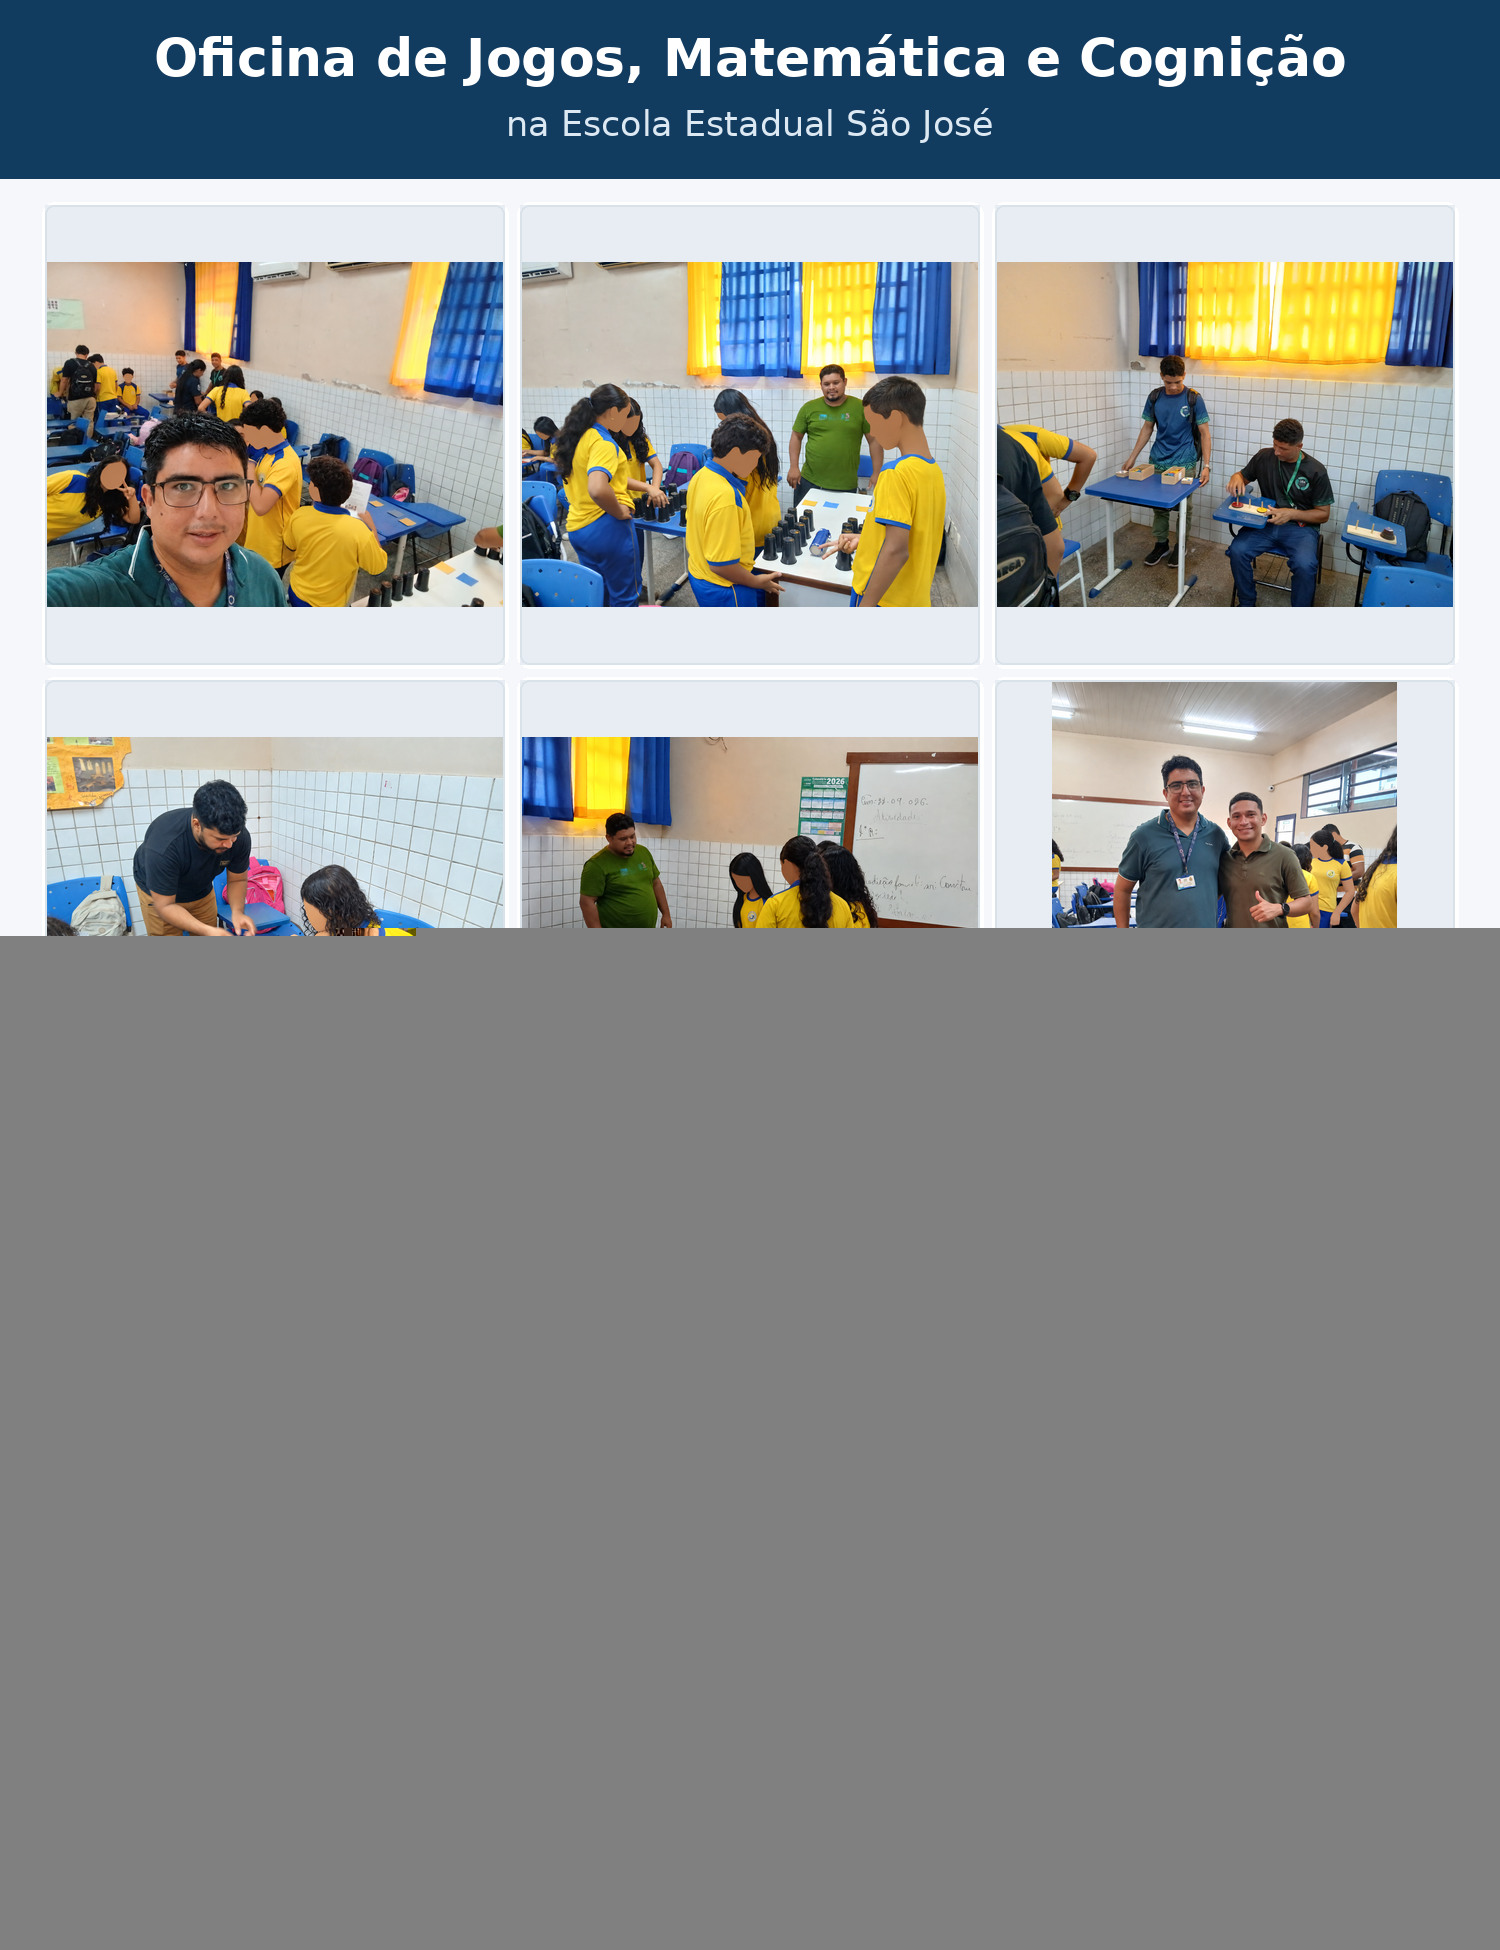
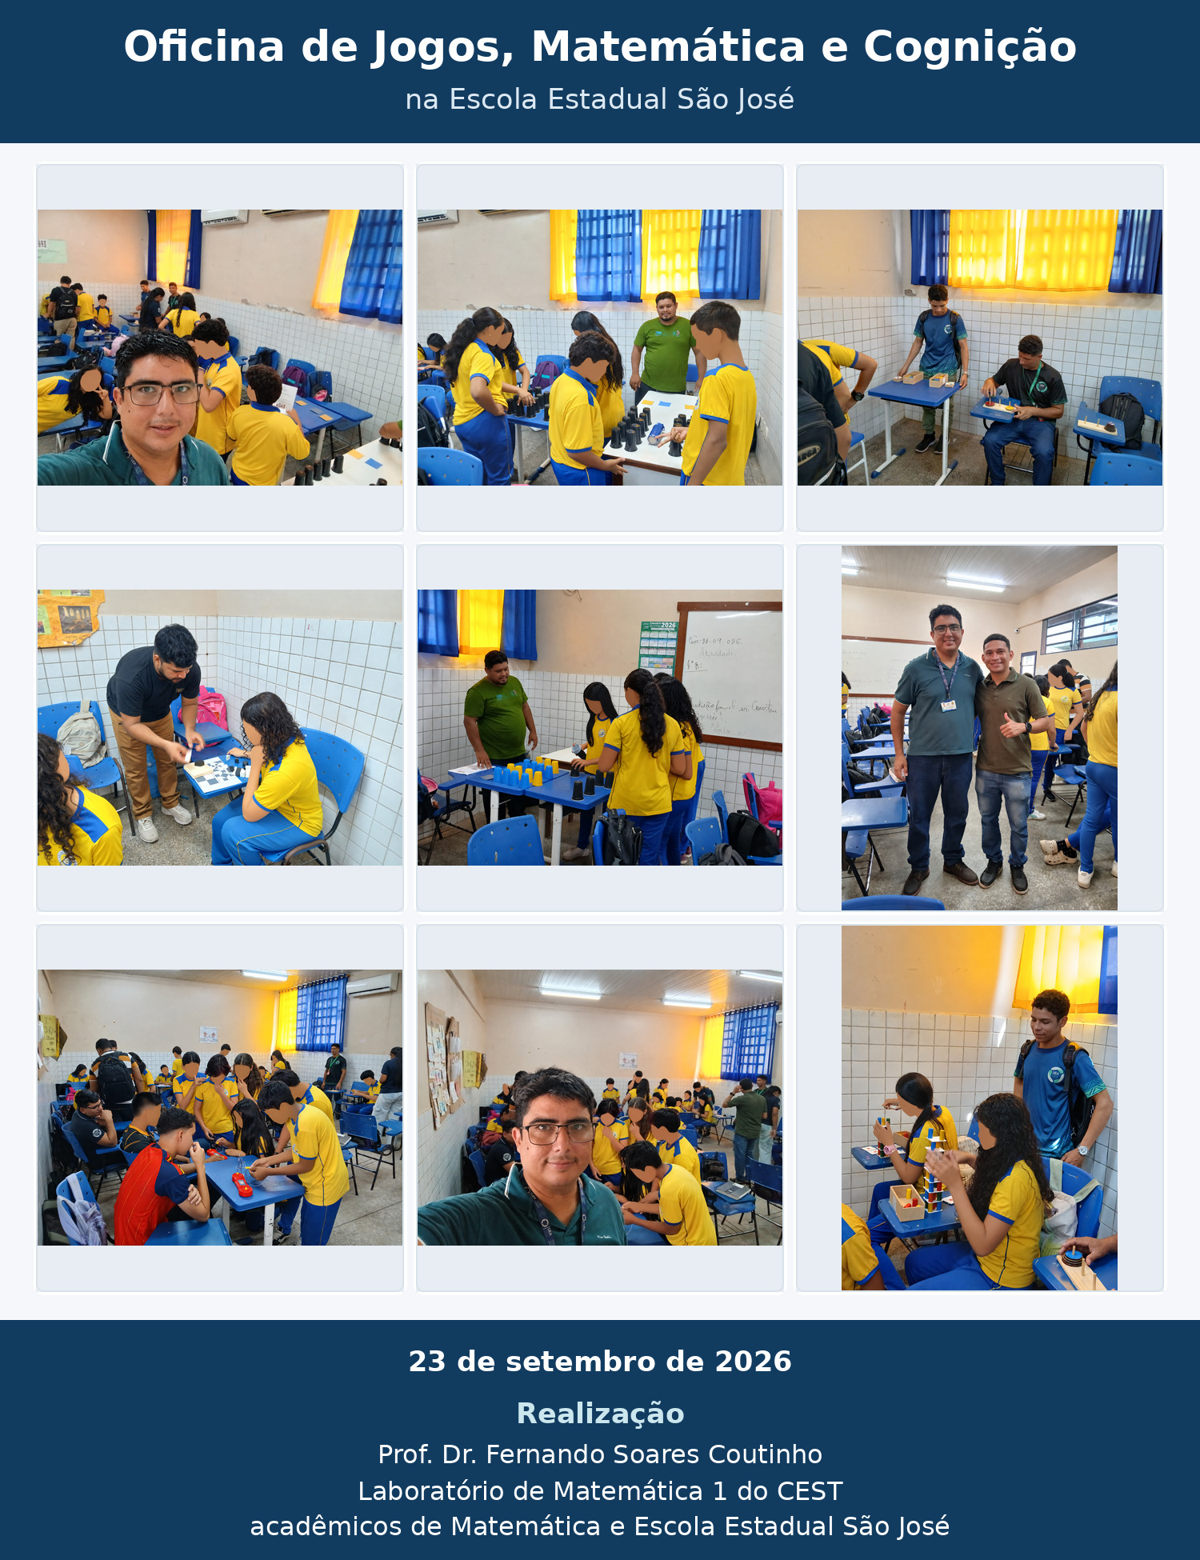
Corrige painéis fotográficos e dimensões na oficina São José

diff --git a/oficinas-palestras.html b/oficinas-palestras.html
@@ -48,7 +48,7 @@
           </div>
         </div>
         <figure class="visual">
-          <img src="imagem/oficina-sao-jose-23-09-2026-painel-1.jpg" alt="Primeiro painel fotográfico da Oficina de Jogos, Matemática e Cognição na Escola Estadual São José" width="1500" height="1950" loading="lazy">
+          <img src="imagem/oficina-sao-jose-23-09-2026-painel-1.jpg" alt="Primeiro painel fotográfico da Oficina de Jogos, Matemática e Cognição na Escola Estadual São José" width="1200" height="1560" loading="lazy">
           <figcaption>Registros da oficina. Os rostos dos participantes de camiseta amarela foram ilustrados para preservar sua identidade.</figcaption>
         </figure>
       </section>
@@ -71,11 +71,11 @@
       <section class="section gallery">
         <div class="gallery-head"><div><p class="kicker">Registros da oficina</p><h2>Jogos e descobertas ao longo do dia.</h2></div><p>Três painéis com momentos das atividades realizadas com os estudantes da Escola Estadual São José.</p></div>
         <figure class="visual">
-          <img src="imagem/oficina-sao-jose-23-09-2026-painel-2.jpg" alt="Segundo painel fotográfico da oficina, com estudantes participando dos jogos e desafios" width="1500" height="1950" loading="lazy">
+          <img src="imagem/oficina-sao-jose-23-09-2026-painel-2.jpg" alt="Segundo painel fotográfico da oficina, com estudantes participando dos jogos e desafios" width="1200" height="1560" loading="lazy">
           <figcaption>Painel de registros da Oficina de Jogos, Matemática e Cognição.</figcaption>
         </figure>
         <figure class="visual">
-          <img src="imagem/oficina-sao-jose-23-09-2026-painel-3.jpg" alt="Terceiro painel fotográfico da oficina, com estudantes e equipe em atividades de matemática e cognição" width="1500" height="1950" loading="lazy">
+          <img src="imagem/oficina-sao-jose-23-09-2026-painel-3.jpg" alt="Terceiro painel fotográfico da oficina, com estudantes e equipe em atividades de matemática e cognição" width="1200" height="1560" loading="lazy">
           <figcaption>Painel de registros da Oficina de Jogos, Matemática e Cognição.</figcaption>
         </figure>
         <p>Realização: Prof. Dr. Fernando Soares Coutinho, Laboratório de Matemática 1 do CEST, acadêmicos de Matemática e Escola Estadual São José.</p>
